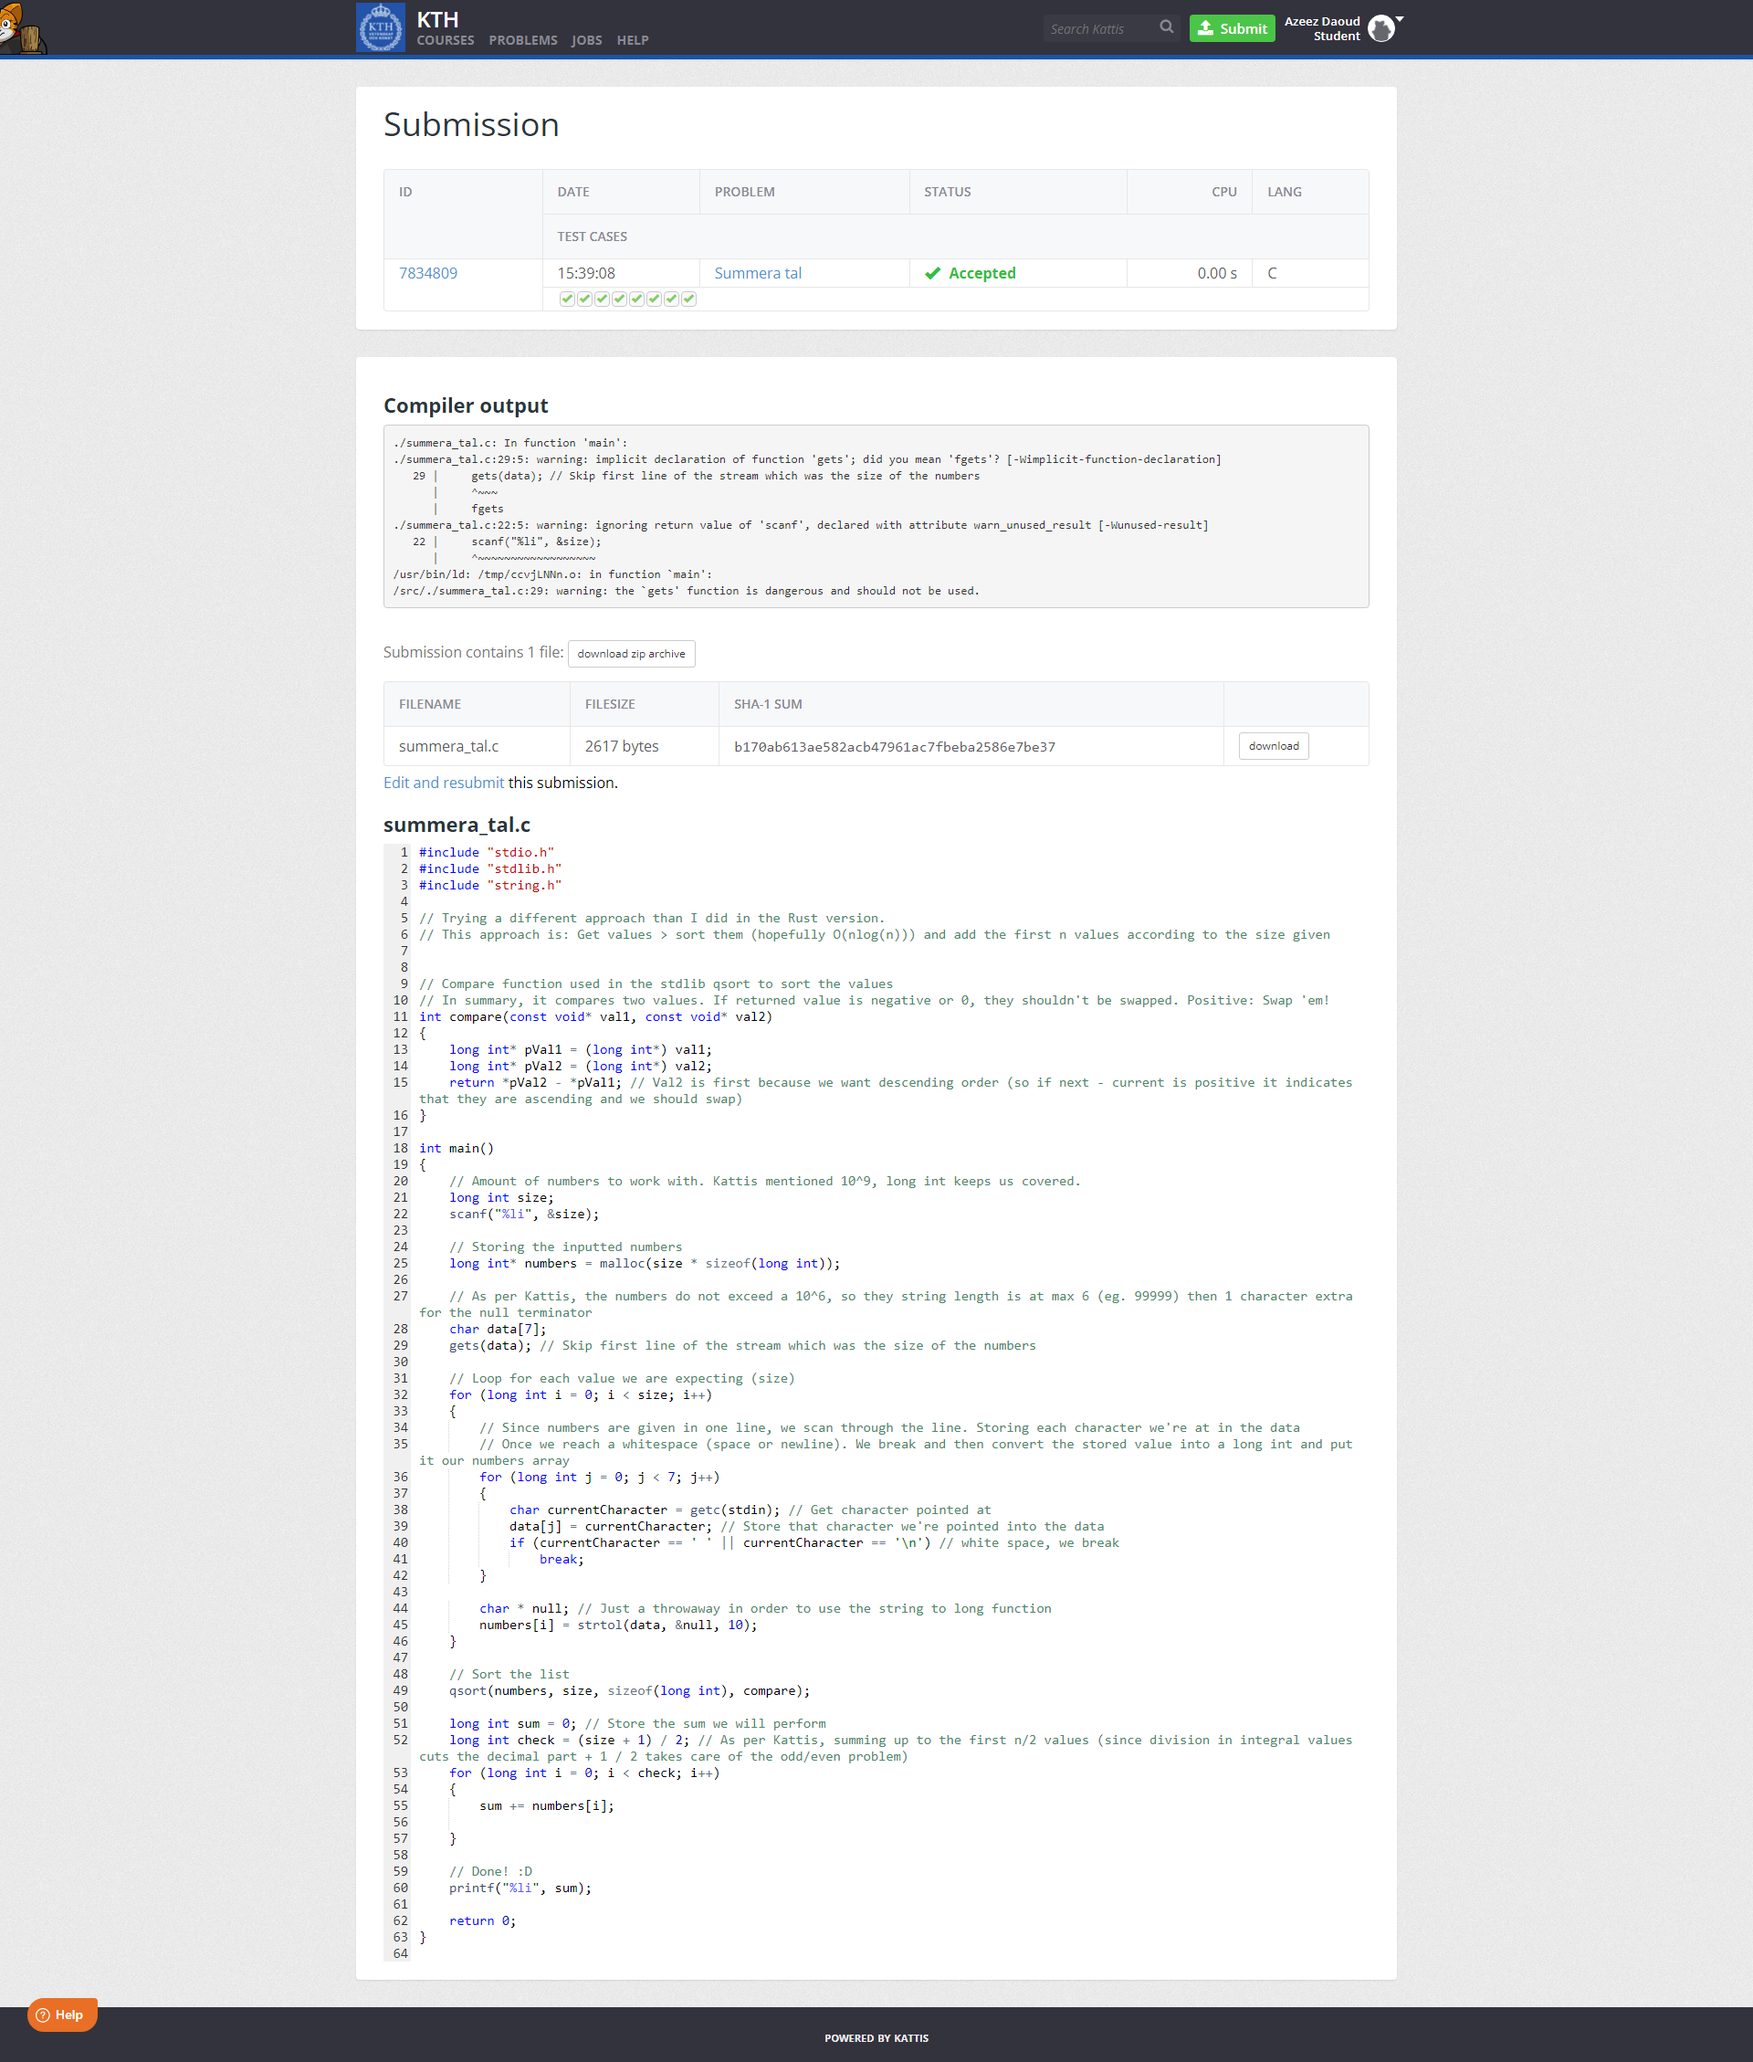
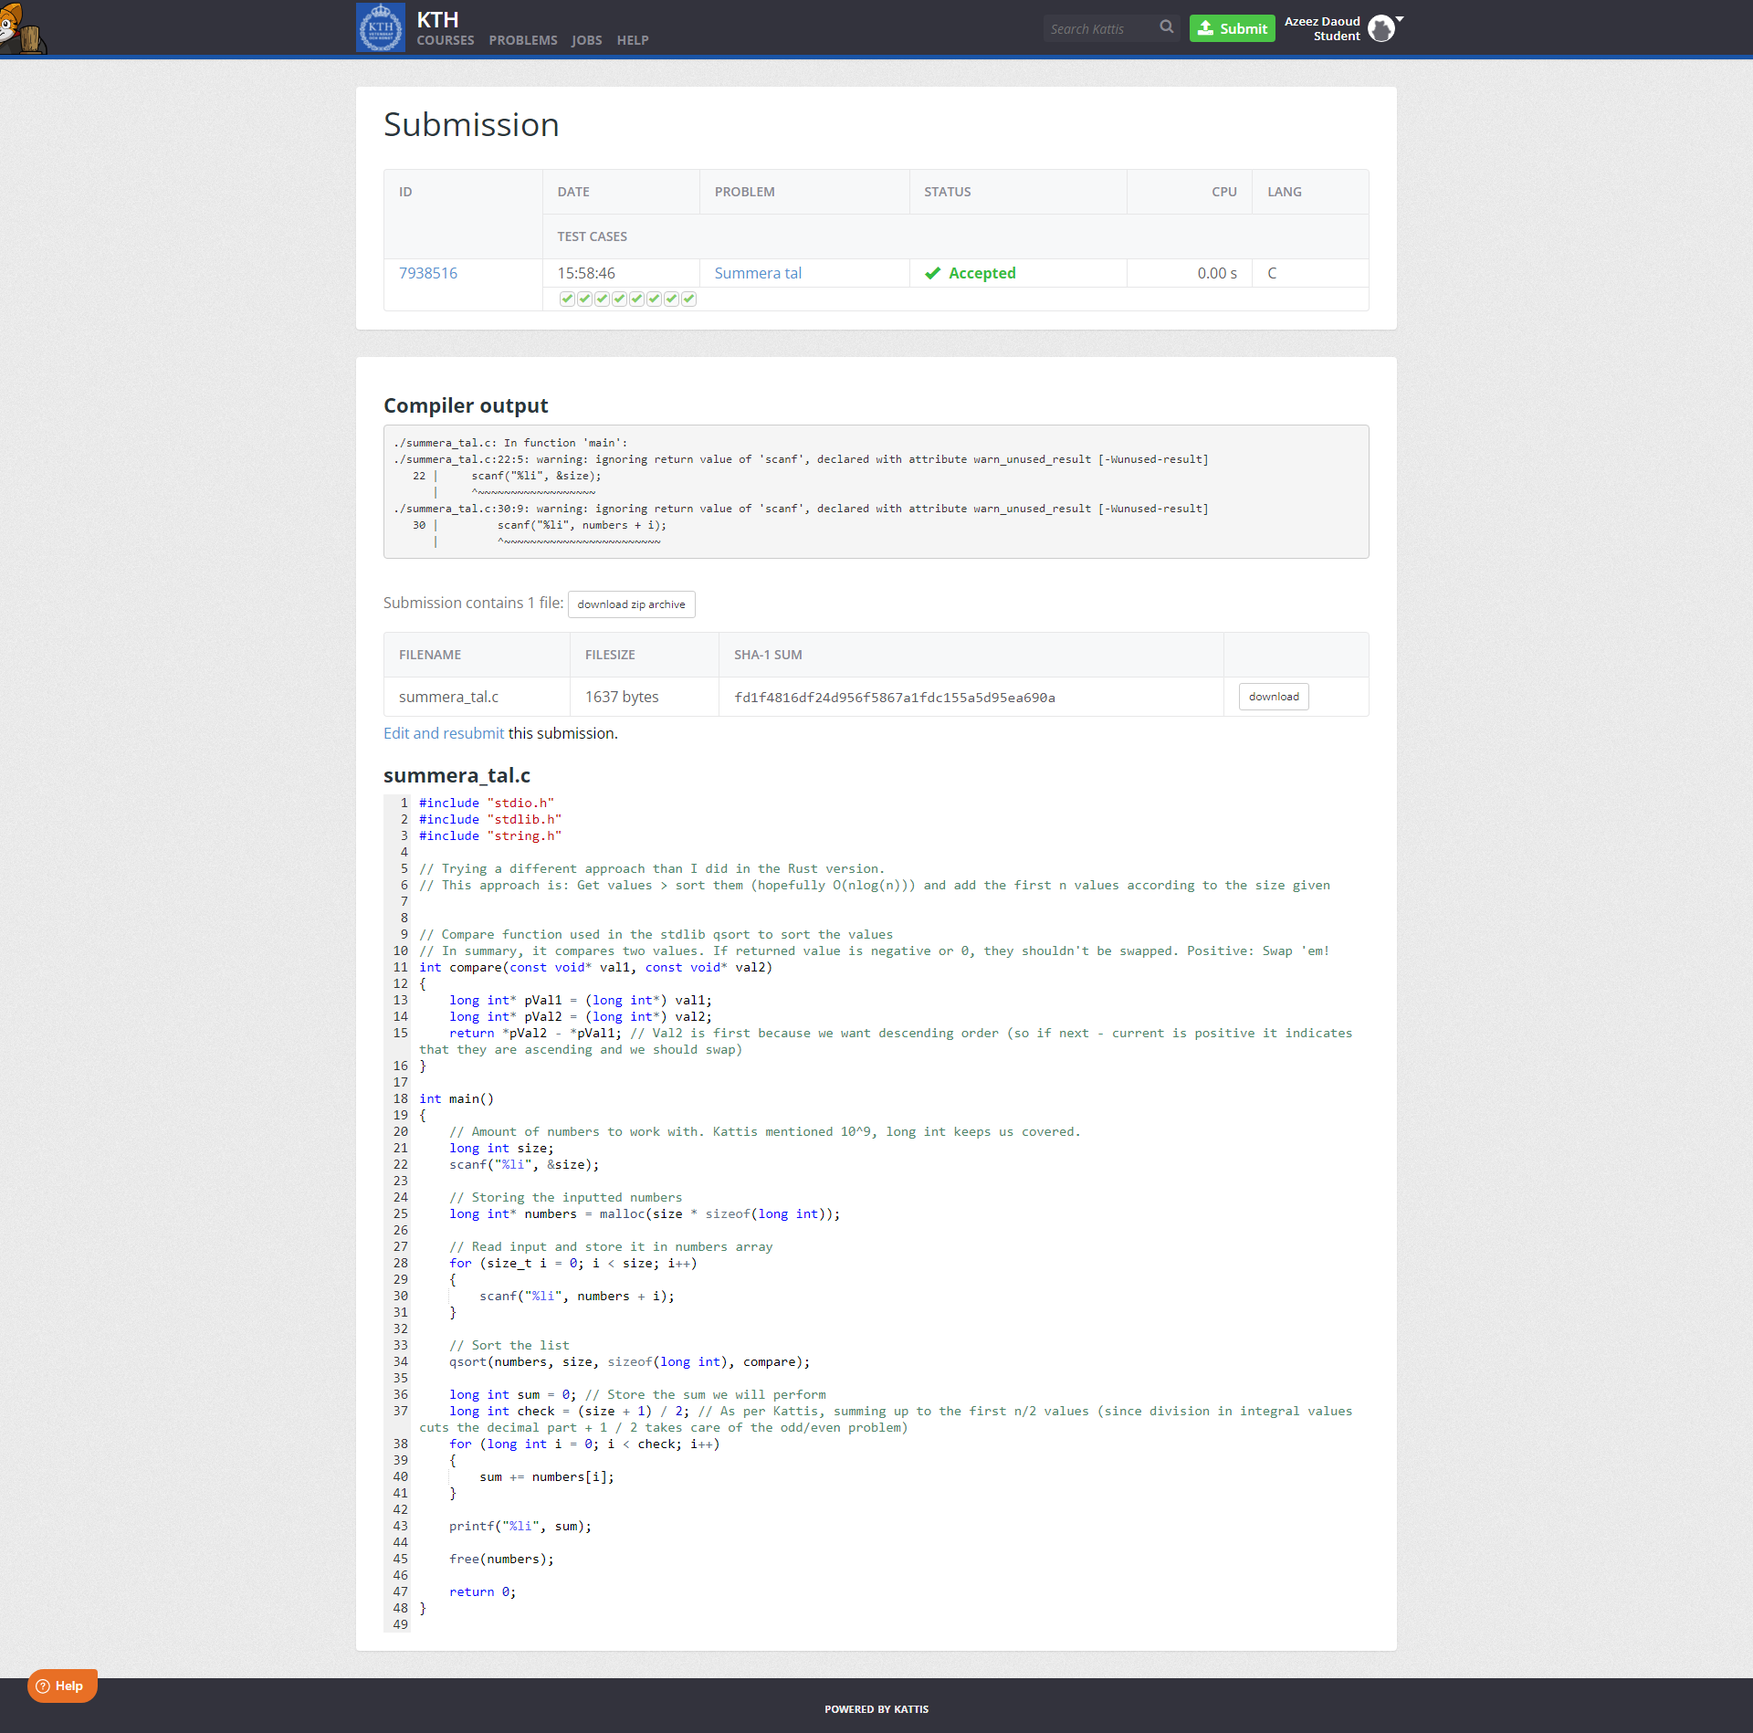
Replace slow cyber clara & add final touches - Fix README - Simplify Summera Tal - Remove old cyber clara to be replaced by faster solution

diff --git a/cyber_clara/cyber_clara.c b/cyber_clara/cyber_clara.c
@@ -1,62 +1,121 @@
 #include "stdio.h"
 #include "stdlib.h"
-#include "string.h"
+#include "memory.h"
 
-// Store name and where the middle of the name is
-// Delimiter is used to avoid erroers such as "bob aba" and "bo baba" will both be stored as "bobaba" thus adding a delimter to distguish them
-struct name
-{
-    char name[42]; // 42 because, 20 for first name, 20 for last, 1 for delimiter and 1 for null terminator
-    unsigned char middle; // place of the delimiter
-};
+// Couldn't be bothered writing it out a zillion times
+#define ulint unsigned long int
 
-// Compare function, compares the name value of the name struct. Used to sort names alphabetically
-int compare(const void* val1, const void* val2)
+// Used as a value to hash the string. Best if Prime number
+#define HASH_VALUE 33
+
+// Hashes a given first and last names by taking a pointer to where they are stored
+ulint hashName(const char* firstName, const char* lastName);
+
+// Insert to the hashSet. Will not add if key already exists. Increments amount by one if key sucessfully added.
+void insert(const ulint* key);
+
+// A HashMap-like structure but only allows unique values
+ulint* hashSet;
+
+// Amount of values in the hashSet
+ulint amount = 0;
+
+// The amount of names that will be inputted. Given in first line of the input
+ulint SIZE = 0;
+
+// Store the name
+typedef struct
 {
-    const struct name* pVal1 = (const struct name*) val1;
-    const struct name* pVal2 = (const struct name*) val2;
-    return strcmp(pVal1->name, pVal2->name);
-}
+    char name[21]; // By Kattis, names are max 20 characters + 1 for null terminator
+} name;
+
 
 int main()
 {
     // Get amount of names
-    unsigned long int size;
-    scanf("%lu", &size);
+    scanf("%lu", &SIZE);
 
-    // Allocate places for names (struct)
-    struct name* names = malloc(size * sizeof(struct name));
+    // Store inputted names int the name struct
+    name* names = malloc(2 * SIZE * sizeof(name));
 
-    // Scan the first names and store where they end in the name
-    for (unsigned long int i = 0; i < size; i++)
+    // Initilise memory for hashSet and its default values
+    hashSet = malloc(SIZE * sizeof(ulint));
+    memset(hashSet, 0, SIZE * sizeof(ulint));
+
+    gets(names[0].name); // Read first line that is in the stdin, it's the amount
+    for (ulint i = 0; i < 2 * SIZE; i++)
     {
-        scanf("%s", names[i].name);
-        names[i].middle = strlen(names[i].name);
+        gets(names[i].name); // gets is faster than scanf (gets is dangerous but it gives a 0.01 difference so, that's nice (for kattis that is))
     }
 
-    // Scan last name and store them starting from the after the middle of name
-    for (unsigned long int i = 0; i < size; i++)
-    {
-        names[i].name[names[i].middle] = '_'; // Set delimiter
-        scanf("%s", names[i].name + names[i].middle + 1); // Store after the middle
+    ulint currentHash = 0;
+    // Loop through names
+    for (ulint i = 0; i < SIZE; i++)
+    {   
+        currentHash = hashName(names[i].name, names[i + SIZE].name);
+        // Hash first and last name (constant offset = SIZE) and insert them in the hashSet
+        insert(&currentHash);
     }
 
-    qsort(names, size, sizeof(struct name), compare);
+    printf("%lu", amount);
     
-    unsigned long int newSize = size;
-
-    // Loop through names once comparing current with next value. If current is equal to next, decrement newSize (we have a duplicate!)
-    for (size_t i = 0; i < size - 1; i++)
-    {
-        if (strcmp(names[i].name, names[i+1].name) == 0)
-            newSize--;
-    }
-
-    // Print the new size after filtering out the duplicates
-    printf("%lu", newSize);
-
-
     free(names);
+    free(hashSet);
 
     return 0;
+}
+
+ulint hashName(const char* firstName, const char* lastName)
+{
+    // The hash value that will be returned
+    ulint hash = 0;
+
+    const char* currentChar = firstName;
+
+    // Iterate through first name until null terminator
+    while (*currentChar != '\0')
+    {
+        hash = (hash + *currentChar) * HASH_VALUE;
+        currentChar++;
+    }
+
+    // Delimiter
+    hash = (hash + '.') * HASH_VALUE;
+
+    // Switching to last name and then looping the same fashion as firstName
+    currentChar = lastName;
+    while (*currentChar != '\0')
+    {
+        hash = (hash + *currentChar) * HASH_VALUE;
+        currentChar++;
+    }
+    
+    return hash;
+}
+
+void insert(const ulint* key)
+{
+    // Modulo the key to get an index in the set
+    ulint index = *key % SIZE;
+
+    // Point to an adress within the set
+    ulint* currentKey = &hashSet[index];
+
+    // If key already exists, return
+    if (*currentKey == *key) {return;}
+
+    // Loop through until we find an empty spot to put the key
+    while (*currentKey != 0)
+    {
+        // Duplicate key, return
+        if (*currentKey == *key) {return;}
+
+        // Move forward in the hashSet and wrap around.
+        index = (index + 1) % SIZE;
+        currentKey = &hashSet[index];
+    }
+
+    // Increase amount of names if above was sucessfull and set the current key to the given key
+    amount++;
+    *currentKey = *key;
 }

diff --git a/summera_tal/summera_tal.c b/summera_tal/summera_tal.c
@@ -24,27 +24,12 @@ int main()
     // Storing the inputted numbers
     long int* numbers = malloc(size * sizeof(long int));
     
-    // As per Kattis, the numbers do not exceed a 10^6, so they string length is at max 6 (eg. 99999) then 1 character extra for the null terminator
-    char data[7];
-    gets(data); // Skip first line of the stream which was the size of the numbers
-
-    // Loop for each value we are expecting (size)
-    for (long int i = 0; i < size; i++)
+    // Read input and store it in numbers array
+    for (size_t i = 0; i < size; i++)
     {
-        // Since numbers are given in one line, we scan through the line. Storing each character we're at in the data
-        // Once we reach a whitespace (space or newline). We break and then convert the stored value into a long int and put it our numbers array
-        for (long int j = 0; j < 7; j++)
-        {
-            char currentCharacter = getc(stdin); // Get character pointed at
-            data[j] = currentCharacter; // Store that character we're pointed into the data
-            if (currentCharacter == ' ' || currentCharacter == '\n') // white space, we break
-                break;
-        }
-
-        char * null; // Just a throwaway in order to use the string to long function
-        numbers[i] = strtol(data, &null, 10);
+        scanf("%li", numbers + i);
     }
-
+    
     // Sort the list
     qsort(numbers, size, sizeof(long int), compare);
     
@@ -53,10 +38,8 @@ int main()
     for (long int i = 0; i < check; i++)
     {
         sum += numbers[i];
-        
     }
     
-    // Done! :D
     printf("%li", sum);
 
     free(numbers);

diff --git a/README.md b/README.md
@@ -18,24 +18,12 @@ Scan each pair of values and compute the absolute value of the difference using 
 ### Summera tal (Differs from Rust Version)
 Since C is C, another approach was taken.
 1. Get the amount of numbers
-2. Go through the single line of numbers
-    1. If current character is not a whitespace, it must a part of a number. Store them.
-    2. Continue gathering non-whitespaces until reaching one
-    3. When reaching a whitespace. All stored characters are converted to an integral value and stored in an array.
+2. Read the input, number by number
 4. Sort the array of integers in descending order
 5. Sum the first half of the array
 
 ### Cyber Clara (Differs from Rust Version)
-Again since C is C, another approach was taken.
-1. Get the amount of names
-2. Prepare an array to store names (it's a struct of names and a middle-of-name indexer, used to avoid collision complications)
-3. Get the first names and store them in a string
-4. Add a delimiter '_' then add the last names to their corresponding first names
-5. Sort the list of names alphabetically
-6. Go through the list of names. If current name and next name are equal then it is a duplicate, reduce the amount of names by 1.
-
-### Faster Cyber Clara (Faster solution)
-Another solution for Cyber Clara (see under `faster_cyber_clara`) is by implementing an own HashSet
+Since C is C, another approach was used by implementing a HashSet (kinda) to make the duplicate checking in worse case O(n) (Linear upon collision)
 1. Read all names
 2. Hash them using `(previousHash + charAsciiValue) * k`
 3. Insert in the HashSet (if key already exists then don't). Each successful insertion increments a counter
